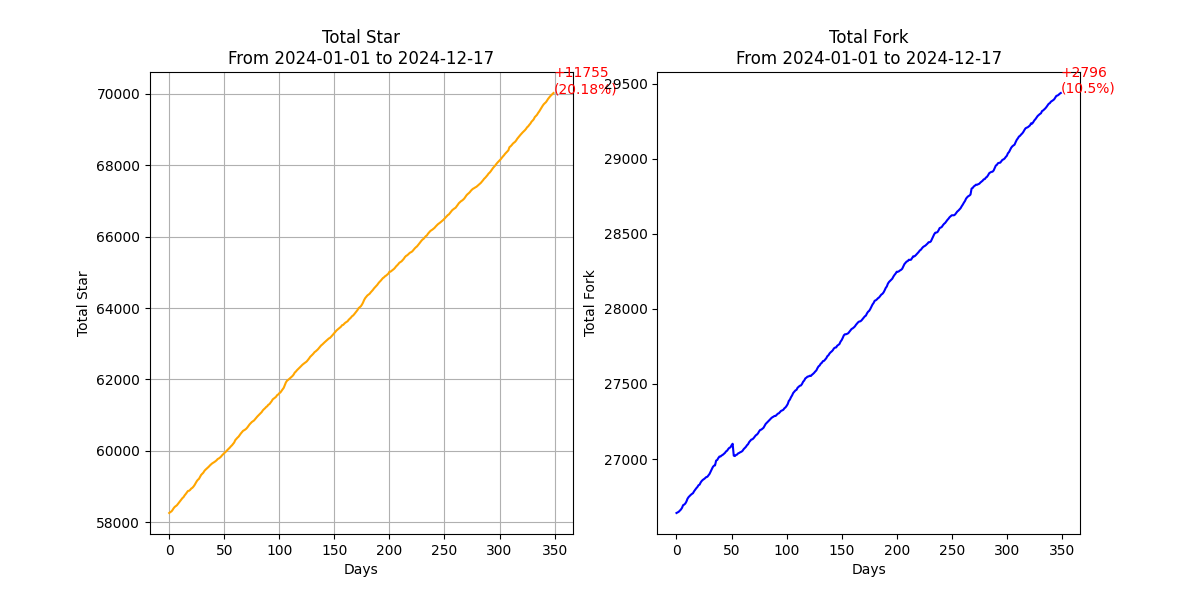
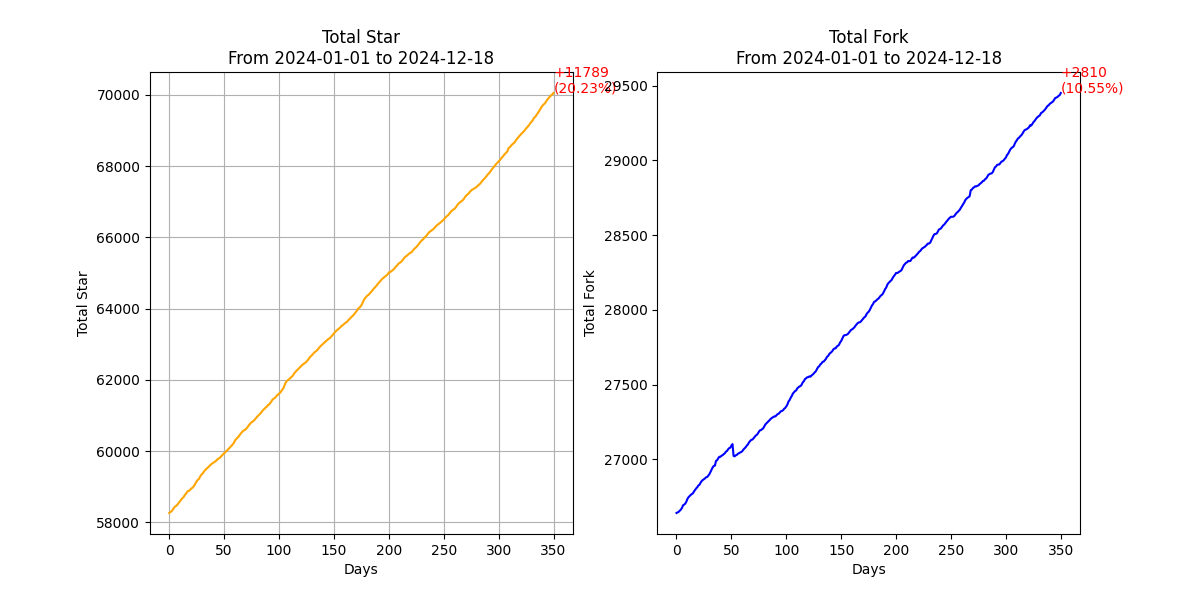
Update Espressif Systems Github Star Rank - 2024-12-18

diff --git a/rank_history/esp_rank_2024-12-17.md b/rank_history/esp_rank_2024-12-17.md
@@ -1,6 +1,6 @@
-# Espressif Systems Github Star Rank 2024-12-18
+# Espressif Systems Github Star Rank 2024-12-17
 
-## Total Star 🌟: 70090, Total Fork 🌳: 29460
+## Total Star 🌟: 70052, Total Fork 🌳: 29451
 
 [![Update Espressif Systems Github Star Rank](https://github.com/leeebo/espressif_star_counter/actions/workflows/update_rank.yml/badge.svg)](https://github.com/leeebo/espressif_star_counter/actions/workflows/update_rank.yml)
 
@@ -8,39 +8,39 @@
 
 | Repository | Stars | Forks | Description |
 |------------|-------|-------|-------------|
-| [esp-idf](https://github.com/espressif/esp-idf) | 14007 | 7351 | Espressif IoT Development Framework. Official development framework for Espressif SoCs. |
-| [arduino-esp32](https://github.com/espressif/arduino-esp32) | 13869 | 7456 | Arduino core for the ESP32 |
+| [esp-idf](https://github.com/espressif/esp-idf) | 13995 | 7349 | Espressif IoT Development Framework. Official development framework for Espressif SoCs. |
+| [arduino-esp32](https://github.com/espressif/arduino-esp32) | 13863 | 7456 | Arduino core for the ESP32 |
 | [esptool](https://github.com/espressif/esptool) | 5638 | 1388 | Espressif SoC serial bootloader utility |
-| [ESP8266_RTOS_SDK](https://github.com/espressif/ESP8266_RTOS_SDK) | 3360 | 1565 | Latest ESP8266 SDK based on FreeRTOS, esp-idf style. |
-| [esp-iot-solution](https://github.com/espressif/esp-iot-solution) | 2014 | 794 | Espressif IoT Library. IoT Device Drivers, Documentations and Solutions. |
-| [esp32-camera](https://github.com/espressif/esp32-camera) | 1971 | 649 | None |
-| [esp-who](https://github.com/espressif/esp-who) | 1726 | 469 | Face detection and recognition framework |
-| [esp-adf](https://github.com/espressif/esp-adf) | 1578 | 695 | Espressif Audio Development Framework |
+| [ESP8266_RTOS_SDK](https://github.com/espressif/ESP8266_RTOS_SDK) | 3359 | 1565 | Latest ESP8266 SDK based on FreeRTOS, esp-idf style. |
+| [esp-iot-solution](https://github.com/espressif/esp-iot-solution) | 2012 | 794 | Espressif IoT Library. IoT Device Drivers, Documentations and Solutions. |
+| [esp32-camera](https://github.com/espressif/esp32-camera) | 1967 | 649 | None |
+| [esp-who](https://github.com/espressif/esp-who) | 1725 | 469 | Face detection and recognition framework |
+| [esp-adf](https://github.com/espressif/esp-adf) | 1578 | 692 | Espressif Audio Development Framework |
 | [vscode-esp-idf-extension](https://github.com/espressif/vscode-esp-idf-extension) | 1096 | 309 | Visual Studio Code extension for ESP-IDF projects |
 | [ESP8266_NONOS_SDK](https://github.com/espressif/ESP8266_NONOS_SDK) | 932 | 536 | ESP8266 nonOS SDK |
-| [esp-at](https://github.com/espressif/esp-at) | 928 | 842 | AT application for ESP32/ESP32-C2/ESP32-C3/ESP32-C6/ESP8266 |
+| [esp-at](https://github.com/espressif/esp-at) | 926 | 842 | AT application for ESP32/ESP32-C2/ESP32-C3/ESP32-C6/ESP8266 |
 | [esp-drone](https://github.com/espressif/esp-drone) | 851 | 246 | Mini Drone/Quadcopter Firmware for ESP32 and ESP32-S Series SoCs. |
-| [esp-box](https://github.com/espressif/esp-box) | 832 | 192 | The ESP-BOX is a new generation AIoT development platform released by Espressif Systems. |
-| [kicad-libraries](https://github.com/espressif/kicad-libraries) | 793 | 111 | KiCad libraries for Espressif SoCs, modules, and DevKits. |
+| [esp-box](https://github.com/espressif/esp-box) | 831 | 192 | The ESP-BOX is a new generation AIoT development platform released by Espressif Systems. |
+| [kicad-libraries](https://github.com/espressif/kicad-libraries) | 791 | 111 | KiCad libraries for Espressif SoCs, modules, and DevKits. |
 | [esp-mdf](https://github.com/espressif/esp-mdf) | 782 | 253 | Espressif Mesh Development Framework, limited maintain, recommend to use https://github.com/espressif/esp-mesh-lite |
 | [ESP8266_MP3_DECODER](https://github.com/espressif/ESP8266_MP3_DECODER) | 745 | 190 | A demo that should be run with ESP8266 Non-OS SDK |
 | [esp-csi](https://github.com/espressif/esp-csi) | 730 | 111 | Applications based on Wi-Fi CSI (Channel state information), such as indoor positioning, human detection |
 | [esp-matter](https://github.com/espressif/esp-matter) | 720 | 165 | Espressif's SDK for Matter |
-| [esp-hosted](https://github.com/espressif/esp-hosted) | 718 | 171 | Hosted Solution (Linux/MCU) with ESP32 (Wi-Fi + BT + BLE) |
+| [esp-hosted](https://github.com/espressif/esp-hosted) | 719 | 171 | Hosted Solution (Linux/MCU) with ESP32 (Wi-Fi + BT + BLE) |
 | [esp-apple-homekit-adk](https://github.com/espressif/esp-apple-homekit-adk) | 625 | 64 | This is a port for Apple's Open Source HomeKit ADK |
 | [esp-mqtt](https://github.com/espressif/esp-mqtt) | 618 | 258 | ESP32 mqtt component |
-| [esp-sr](https://github.com/espressif/esp-sr) | 605 | 108 | Speech recognition |
-| [esp-skainet](https://github.com/espressif/esp-skainet) | 597 | 136 | Espressif intelligent voice assistant |
+| [esp-sr](https://github.com/espressif/esp-sr) | 605 | 107 | Speech recognition |
+| [esp-skainet](https://github.com/espressif/esp-skainet) | 596 | 135 | Espressif intelligent voice assistant |
 | [esp-dl](https://github.com/espressif/esp-dl) | 589 | 123 | Espressif deep-learning library for AIoT applications |
-| [esp-homekit-sdk](https://github.com/espressif/esp-homekit-sdk) | 574 | 109 | None |
-| [esp-now](https://github.com/espressif/esp-now) | 557 | 97 | A connectionless Wi-Fi communication protocol |
+| [esp-homekit-sdk](https://github.com/espressif/esp-homekit-sdk) | 573 | 109 | None |
+| [esp-now](https://github.com/espressif/esp-now) | 555 | 97 | A connectionless Wi-Fi communication protocol |
 | [esp32-nesemu](https://github.com/espressif/esp32-nesemu) | 551 | 173 | Proof-of-concept NES emulator for the ESP32 |
-| [esp-dsp](https://github.com/espressif/esp-dsp) | 493 | 92 | DSP library for ESP-IDF |
-| [esp-rainmaker](https://github.com/espressif/esp-rainmaker) | 471 | 156 | ESP RainMaker Agent for firmware development |
+| [esp-dsp](https://github.com/espressif/esp-dsp) | 492 | 92 | DSP library for ESP-IDF |
+| [esp-rainmaker](https://github.com/espressif/esp-rainmaker) | 472 | 156 | ESP RainMaker Agent for firmware development |
 | [ESP8266_AT](https://github.com/espressif/ESP8266_AT) | 471 | 227 | This project is not maintained, please use https://github.com/espressif/esp-at. |
 | [rust-esp32-example](https://github.com/espressif/rust-esp32-example) | 450 | 36 | Example of Rust integration into an ESP-IDF project, for ESP32 series of chips |
 | [esp-tflite-micro](https://github.com/espressif/esp-tflite-micro) | 403 | 86 | TensorFlow Lite Micro for Espressif Chipsets |
-| [esp-serial-flasher](https://github.com/espressif/esp-serial-flasher) | 396 | 113 | Library for flashing Espressif SoCs from other MCUs. |
+| [esp-serial-flasher](https://github.com/espressif/esp-serial-flasher) | 396 | 112 | Library for flashing Espressif SoCs from other MCUs. |
 | [esp-dev-kits](https://github.com/espressif/esp-dev-kits) | 375 | 186 | Docs, Schematics, Factory Firmwares for ESP Development Kits |
 | [openocd-esp32](https://github.com/espressif/openocd-esp32) | 365 | 134 | OpenOCD branch with ESP32 JTAG support |
 | [esp-aliyun](https://github.com/espressif/esp-aliyun) | 341 | 151 | Aliyun Iotkit-embedded, support esp32 & esp8266. |
@@ -52,24 +52,24 @@
 | [esp-aws-iot](https://github.com/espressif/esp-aws-iot) | 274 | 166 | AWS IoT SDK for ESP32 based chipsets |
 | [esp-bsp](https://github.com/espressif/esp-bsp) | 212 | 111 | Board support components for Espressif development boards |
 | [esp-idf-provisioning-android](https://github.com/espressif/esp-idf-provisioning-android) | 206 | 138 | Android Provisioning application for ESP-IDF Unified provisioning |
-| [esp-protocols](https://github.com/espressif/esp-protocols) | 201 | 135 | Collection of ESP-IDF components related to networking protocols |
 | [esp32-doom](https://github.com/espressif/esp32-doom) | 201 | 39 | A proof-of-concept port of PrBoom to the ESP32. Needs psram hardware. |
+| [esp-protocols](https://github.com/espressif/esp-protocols) | 200 | 135 | Collection of ESP-IDF components related to networking protocols |
 | [ESP31_RTOS_SDK](https://github.com/espressif/ESP31_RTOS_SDK) | 188 | 58 | ESP31B SDK based on FreeRTOS. For ESP32 please see http://github.com/espressif/esp-idf |
 | [esp-zigbee-sdk](https://github.com/espressif/esp-zigbee-sdk) | 181 | 33 | Espressif Zigbee SDK |
 | [esp-jumpstart](https://github.com/espressif/esp-jumpstart) | 179 | 58 | Jumpstart from concept to production |
 | [esp-azure](https://github.com/espressif/esp-azure) | 178 | 93 | SDK to connect ESP8266 and ESP32 to Microsoft Azure IoT services |
-| [esp-iot-bridge](https://github.com/espressif/esp-iot-bridge) | 170 | 54 | A smart bridge to make both ESP and the other MCU or smart device can access the Internet. |
+| [esp-iot-bridge](https://github.com/espressif/esp-iot-bridge) | 169 | 54 | A smart bridge to make both ESP and the other MCU or smart device can access the Internet. |
 | [esp32-wifi-lib](https://github.com/espressif/esp32-wifi-lib) | 167 | 71 | ESP32 WiFi stack precompiled libraries |
 | [esp-gdbstub](https://github.com/espressif/esp-gdbstub) | 162 | 38 | None |
 | [idf-extra-components](https://github.com/espressif/idf-extra-components) | 156 | 93 | Additional components for ESP-IDF, maintained by Espressif |
 | [esp32-arduino-lib-builder](https://github.com/espressif/esp32-arduino-lib-builder) | 153 | 171 | None |
-| [esp-nn](https://github.com/espressif/esp-nn) | 147 | 24 | Optimised Neural Network functions for Espressif chipsets |
+| [esp-nn](https://github.com/espressif/esp-nn) | 146 | 24 | Optimised Neural Network functions for Espressif chipsets |
 | [esp-google-iot](https://github.com/espressif/esp-google-iot) | 143 | 44 | Google Cloud IoT SDK as an ESP-IDF Component |
 | [esp-idf-provisioning-ios](https://github.com/espressif/esp-idf-provisioning-ios) | 139 | 64 | None |
 | [esp-mesh-lite](https://github.com/espressif/esp-mesh-lite) | 138 | 25 | A lite version Wi-Fi Mesh, each node can access the network over the IP layer. |
 | [esp8266-rtos-sample-code](https://github.com/espressif/esp8266-rtos-sample-code) | 129 | 86 | None |
-| [esp-thread-br](https://github.com/espressif/esp-thread-br) | 120 | 26 | Espressif Thread Border Router SDK |
 | [esp-modbus](https://github.com/espressif/esp-modbus) | 119 | 55 | ESP-Modbus - the officially suppported library for Modbus protocol (serial RS485 + TCP over WiFi or Ethernet). |
+| [esp-thread-br](https://github.com/espressif/esp-thread-br) | 119 | 26 | Espressif Thread Border Router SDK |
 | [book-esp32c3-iot-projects](https://github.com/espressif/book-esp32c3-iot-projects) | 108 | 34 | 《ESP32-C3 物联网工程开发实战》配套代码 |
 | [esp-insights](https://github.com/espressif/esp-insights) | 106 | 29 | ESP Insights: A remote diagnostics/observability framework for connected devices |
 | [esp-rainmaker-android](https://github.com/espressif/esp-rainmaker-android) | 105 | 61 | ESP RainMaker Android app sources |
@@ -84,7 +84,7 @@
 | [esp-qcloud](https://github.com/espressif/esp-qcloud) | 72 | 36 | 基于 ESP-IDF 原生开发接入腾讯 IoT Explorer，支持 ESP32/ESP32S2，快速实现腾讯连连控制。 |
 | [esp32c3-direct-boot-example](https://github.com/espressif/esp32c3-direct-boot-example) | 69 | 18 | Example of ESP32-C3 (rev. 3 and later) "direct boot" feature. |
 | [esp8266-nonos-sample-code](https://github.com/espressif/esp8266-nonos-sample-code) | 66 | 41 | None |
-| [esp-adf-libs](https://github.com/espressif/esp-adf-libs) | 62 | 42 | None |
+| [esp-adf-libs](https://github.com/espressif/esp-adf-libs) | 62 | 41 | None |
 | [esp-brookesia](https://github.com/espressif/esp-brookesia) | 61 | 10 | ESP-Brookesia is a human-machine interaction development framework designed for AIoT devices. |
 | [esp-moonlight](https://github.com/espressif/esp-moonlight) | 59 | 35 | None |
 | [openocd-on-esp32](https://github.com/espressif/openocd-on-esp32) | 59 | 6 | OpenOCD port running on ESP32-S3 microcontrollers |
@@ -153,7 +153,7 @@
 | [check-copyright](https://github.com/espressif/check-copyright) | 9 | 6 | Pre-commit/gitlab-ci script for checking and adding license SPDX headers |
 | [clang-tidy-runner](https://github.com/espressif/clang-tidy-runner) | 9 | 6 | None |
 | [esp-welink](https://github.com/espressif/esp-welink) | 9 | 5 | Tencent 微瓴 support for ESP32 & ESP8266. |
-| [idf-im-cli](https://github.com/espressif/idf-im-cli) | 9 | 0 | EIM CLI: Cross-Platform ESP-IDF Installation Manager |
+| [idf-im-cli](https://github.com/espressif/idf-im-cli) | 9 | 0 | ESP-IDF Installation Manager - CLI |
 | [iwidc](https://github.com/espressif/iwidc) | 9 | 1 | ESP IDF Web IDE Desktop Companion |
 | [maker-faire-cz](https://github.com/espressif/maker-faire-cz) | 9 | 2 | This repository hosts resources for all the demos presented by Espressif at maker Faire |
 | [esp-matter-tools](https://github.com/espressif/esp-matter-tools) | 8 | 2 | None |
@@ -165,7 +165,7 @@
 | [upload-components-ci-action](https://github.com/espressif/upload-components-ci-action) | 7 | 4 | GitHub Action to upload ESP-IDF components to the component registry |
 | [esp-idf-kconfig](https://github.com/espressif/esp-idf-kconfig) | 6 | 2 | None |
 | [esp-rainmaker-cli](https://github.com/espressif/esp-rainmaker-cli) | 6 | 17 | None |
-| [idf-im-ui](https://github.com/espressif/idf-im-ui) | 6 | 0 | EIM GUI: Cross-Platform ESP-IDF Installation Manager |
+| [idf-im-ui](https://github.com/espressif/idf-im-ui) | 6 | 0 | ESP-IDF Installation Manager based on Tauri |
 | [midi-workshop](https://github.com/espressif/midi-workshop) | 6 | 1 | Repository with materials for ESP32-S3 USB MIDI workshop in Brno on 2024/05/17 |
 | [.github](https://github.com/espressif/.github) | 5 | 5 | None |
 | [esp-idf-nvs-partition-gen](https://github.com/espressif/esp-idf-nvs-partition-gen) | 5 | 2 | NVS Partition Generator tool |
